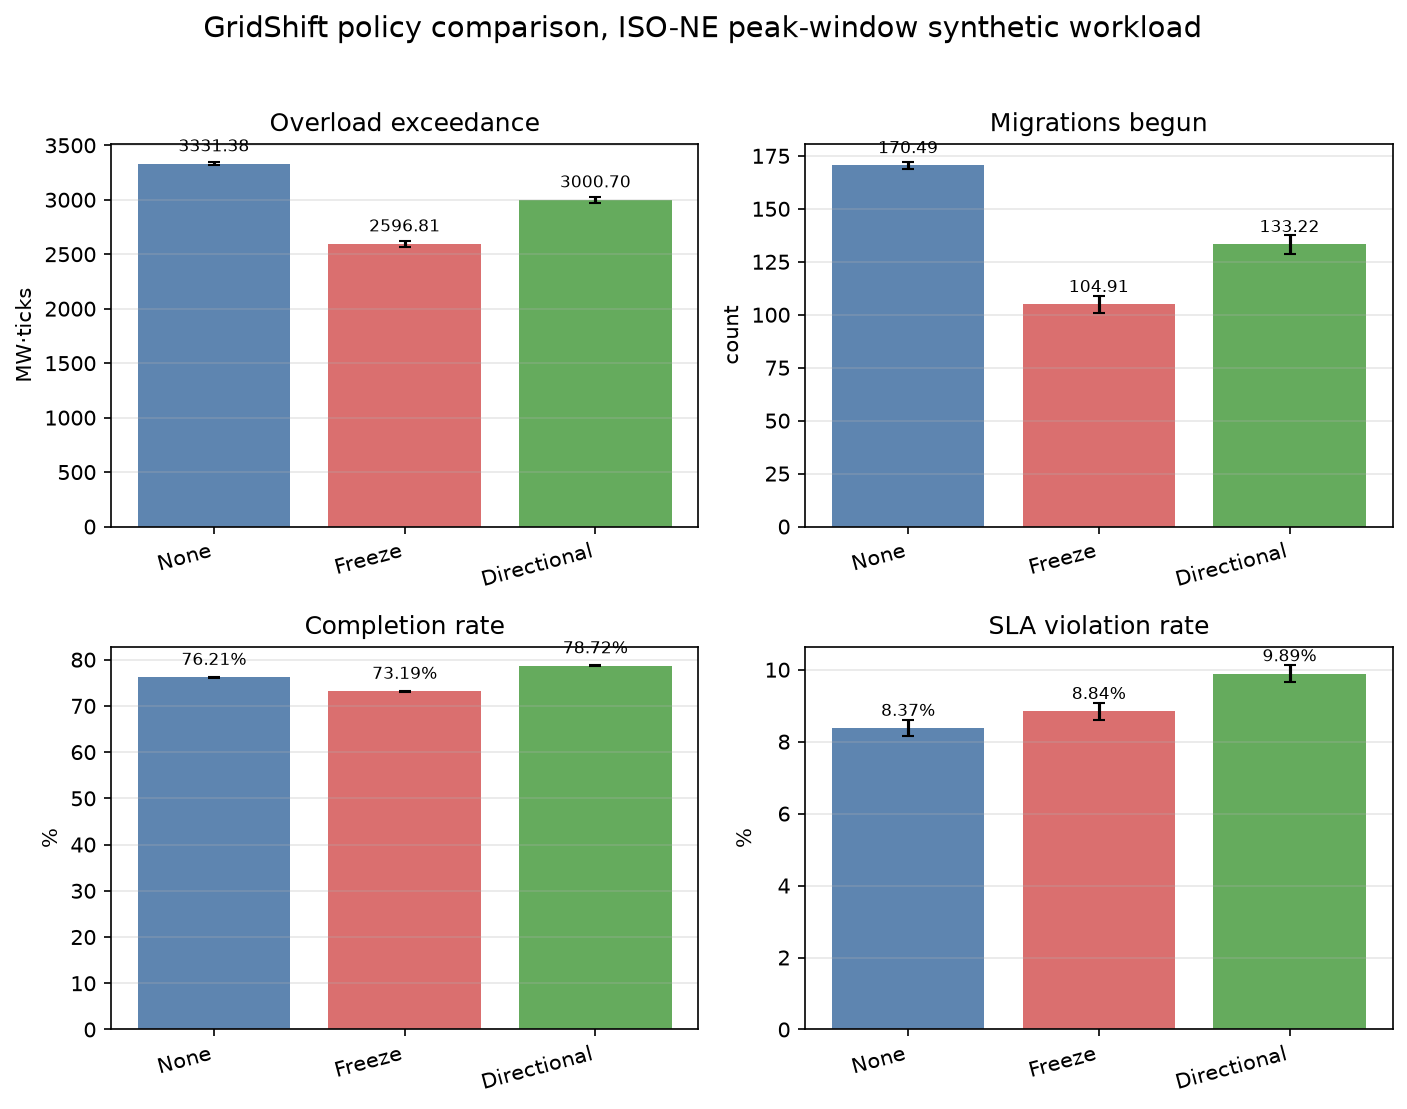
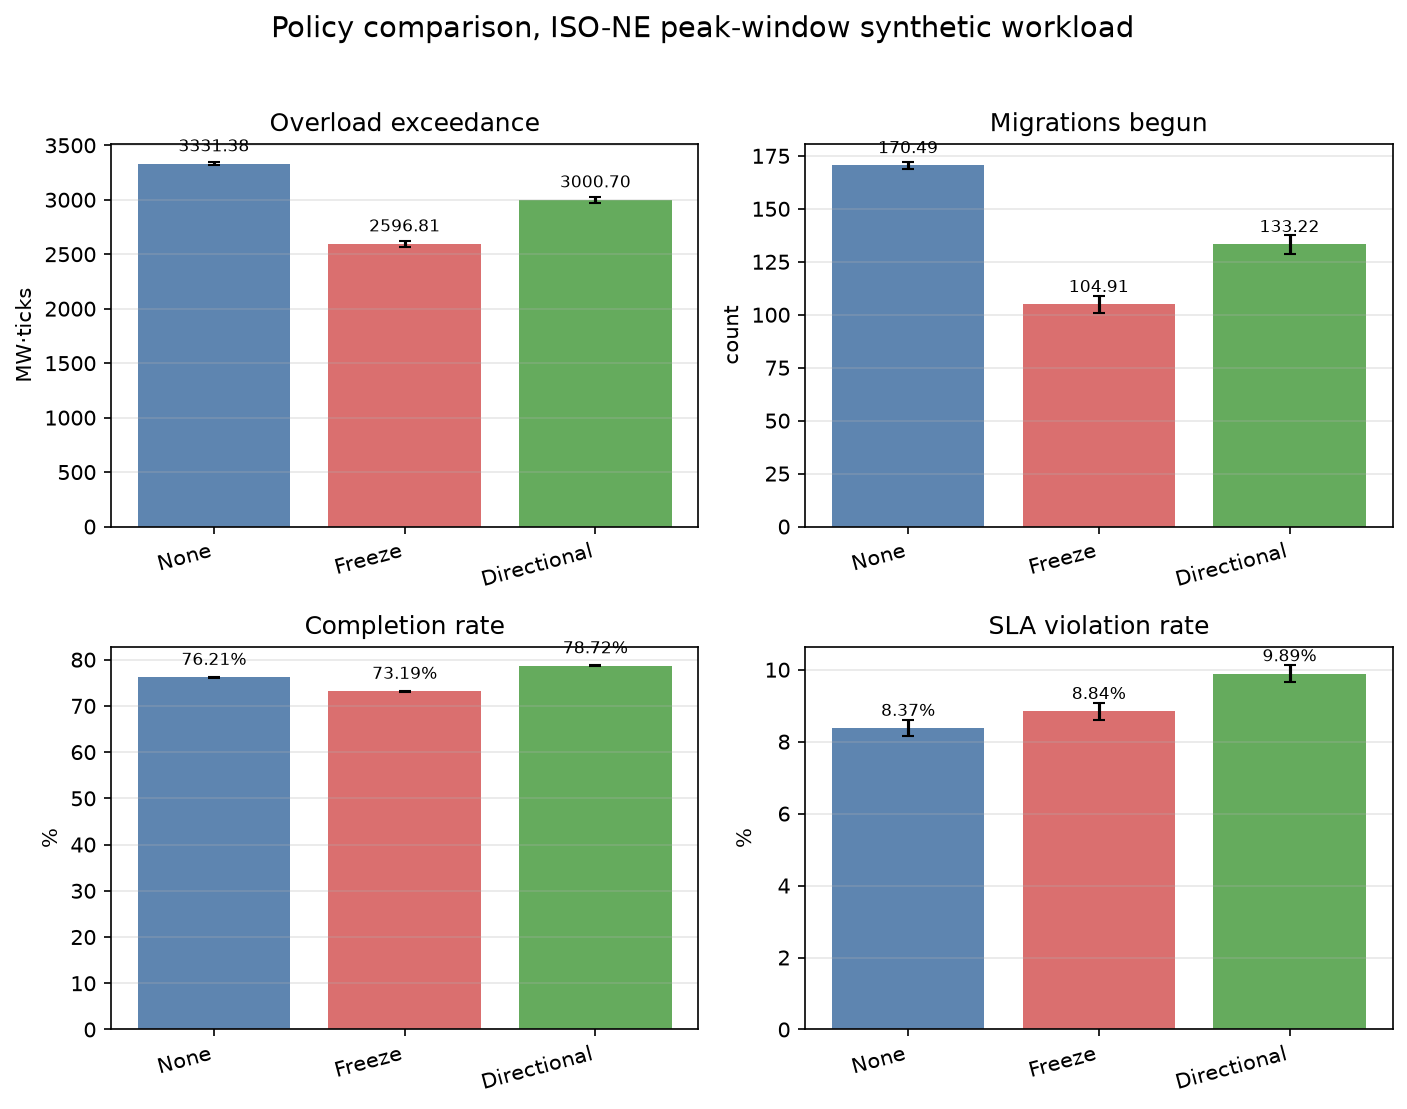
Remove GridShift branding from evaluation figures

Changed region(s): [[0.1528, 0.0, 0.8557, 0.0307]]

diff --git a/experiments/fig_dc.py b/experiments/fig_dc.py
@@ -118,7 +118,7 @@ def make_figure(agg):
     ax2.set_ylabel("Migrations begun", color="#2ca02c")
     ax2.tick_params(axis="y", labelcolor="#2ca02c")
 
-    fig.suptitle("GridShift DC module — safety/availability trade-off and migration cost",
+    fig.suptitle("Directional safe mode — safety-availability trade-off and migration cost",
                  fontsize=12, y=1.02)
     fig.tight_layout()
     png = os.path.join(OUTDIR, "fig_dc_tradeoff.png")

diff --git a/experiments/fig_robustness.py b/experiments/fig_robustness.py
@@ -89,7 +89,7 @@ def make_figure(data):
         ax.set_xlabel("Compromised fraction (%)")
         ax.grid(True, alpha=0.3)
         ax.legend(fontsize=8)
-    fig.suptitle("GridShift robustness vs. adversary-controlled fraction "
+    fig.suptitle("Robustness vs. adversary-controlled fraction "
                  "(fusion detector, 500 seeds, 95% CI)", fontsize=12, y=1.01)
     fig.tight_layout()
     png = os.path.join(OUTDIR, "fig_robustness.png")

diff --git a/experiments/fig_policy_compare_isone.py b/experiments/fig_policy_compare_isone.py
@@ -178,7 +178,7 @@ def make_figure(rows: dict[str, dict[str, str]]) -> None:
         percent=True,
     )
     fig.suptitle(
-        "GridShift policy comparison, ISO-NE peak-window synthetic workload",
+        "Policy comparison, ISO-NE peak-window synthetic workload",
         fontsize=14,
         y=0.98,
     )

diff --git a/experiments/fig_detector_compare.py b/experiments/fig_detector_compare.py
@@ -203,7 +203,7 @@ def make_figure(agg: dict) -> str:
     axes[0].legend(fontsize=8)   # label the two attack cases
 
     fig.suptitle(
-        "GridShift detector comparison under scheduled adversary",
+        "Detector comparison under scheduled adversary",
         fontsize=14,
         y=0.98,
     )
